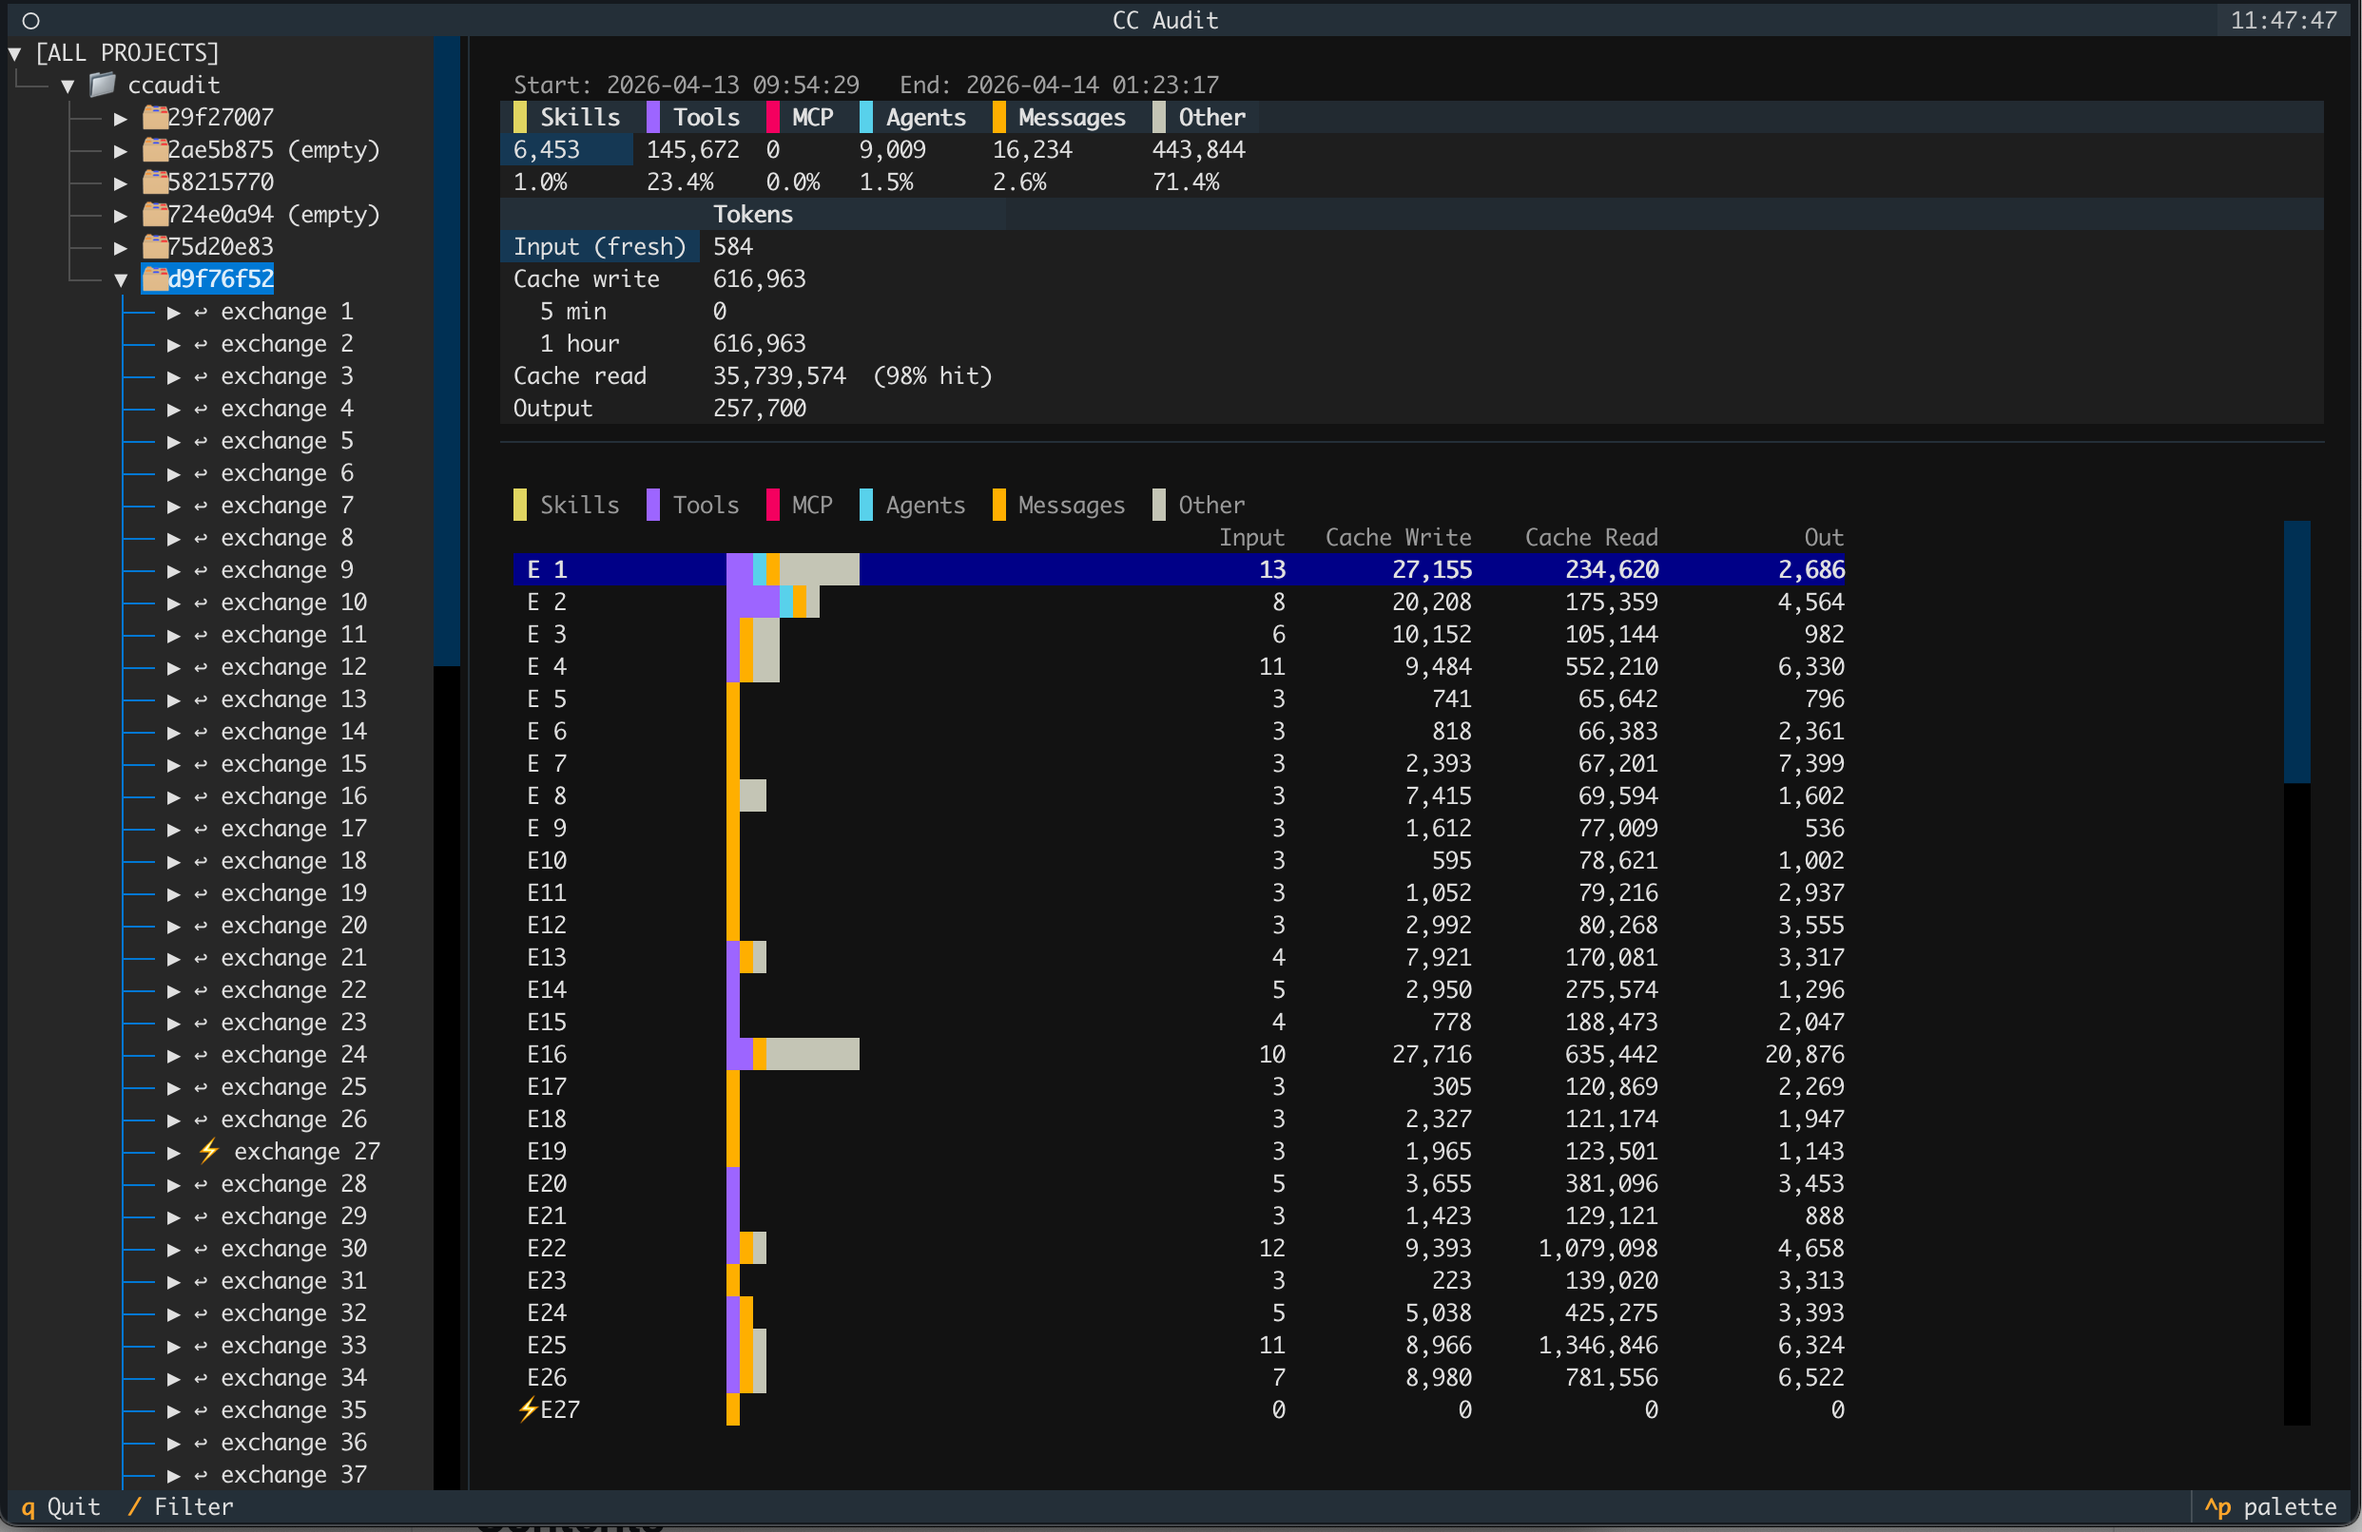
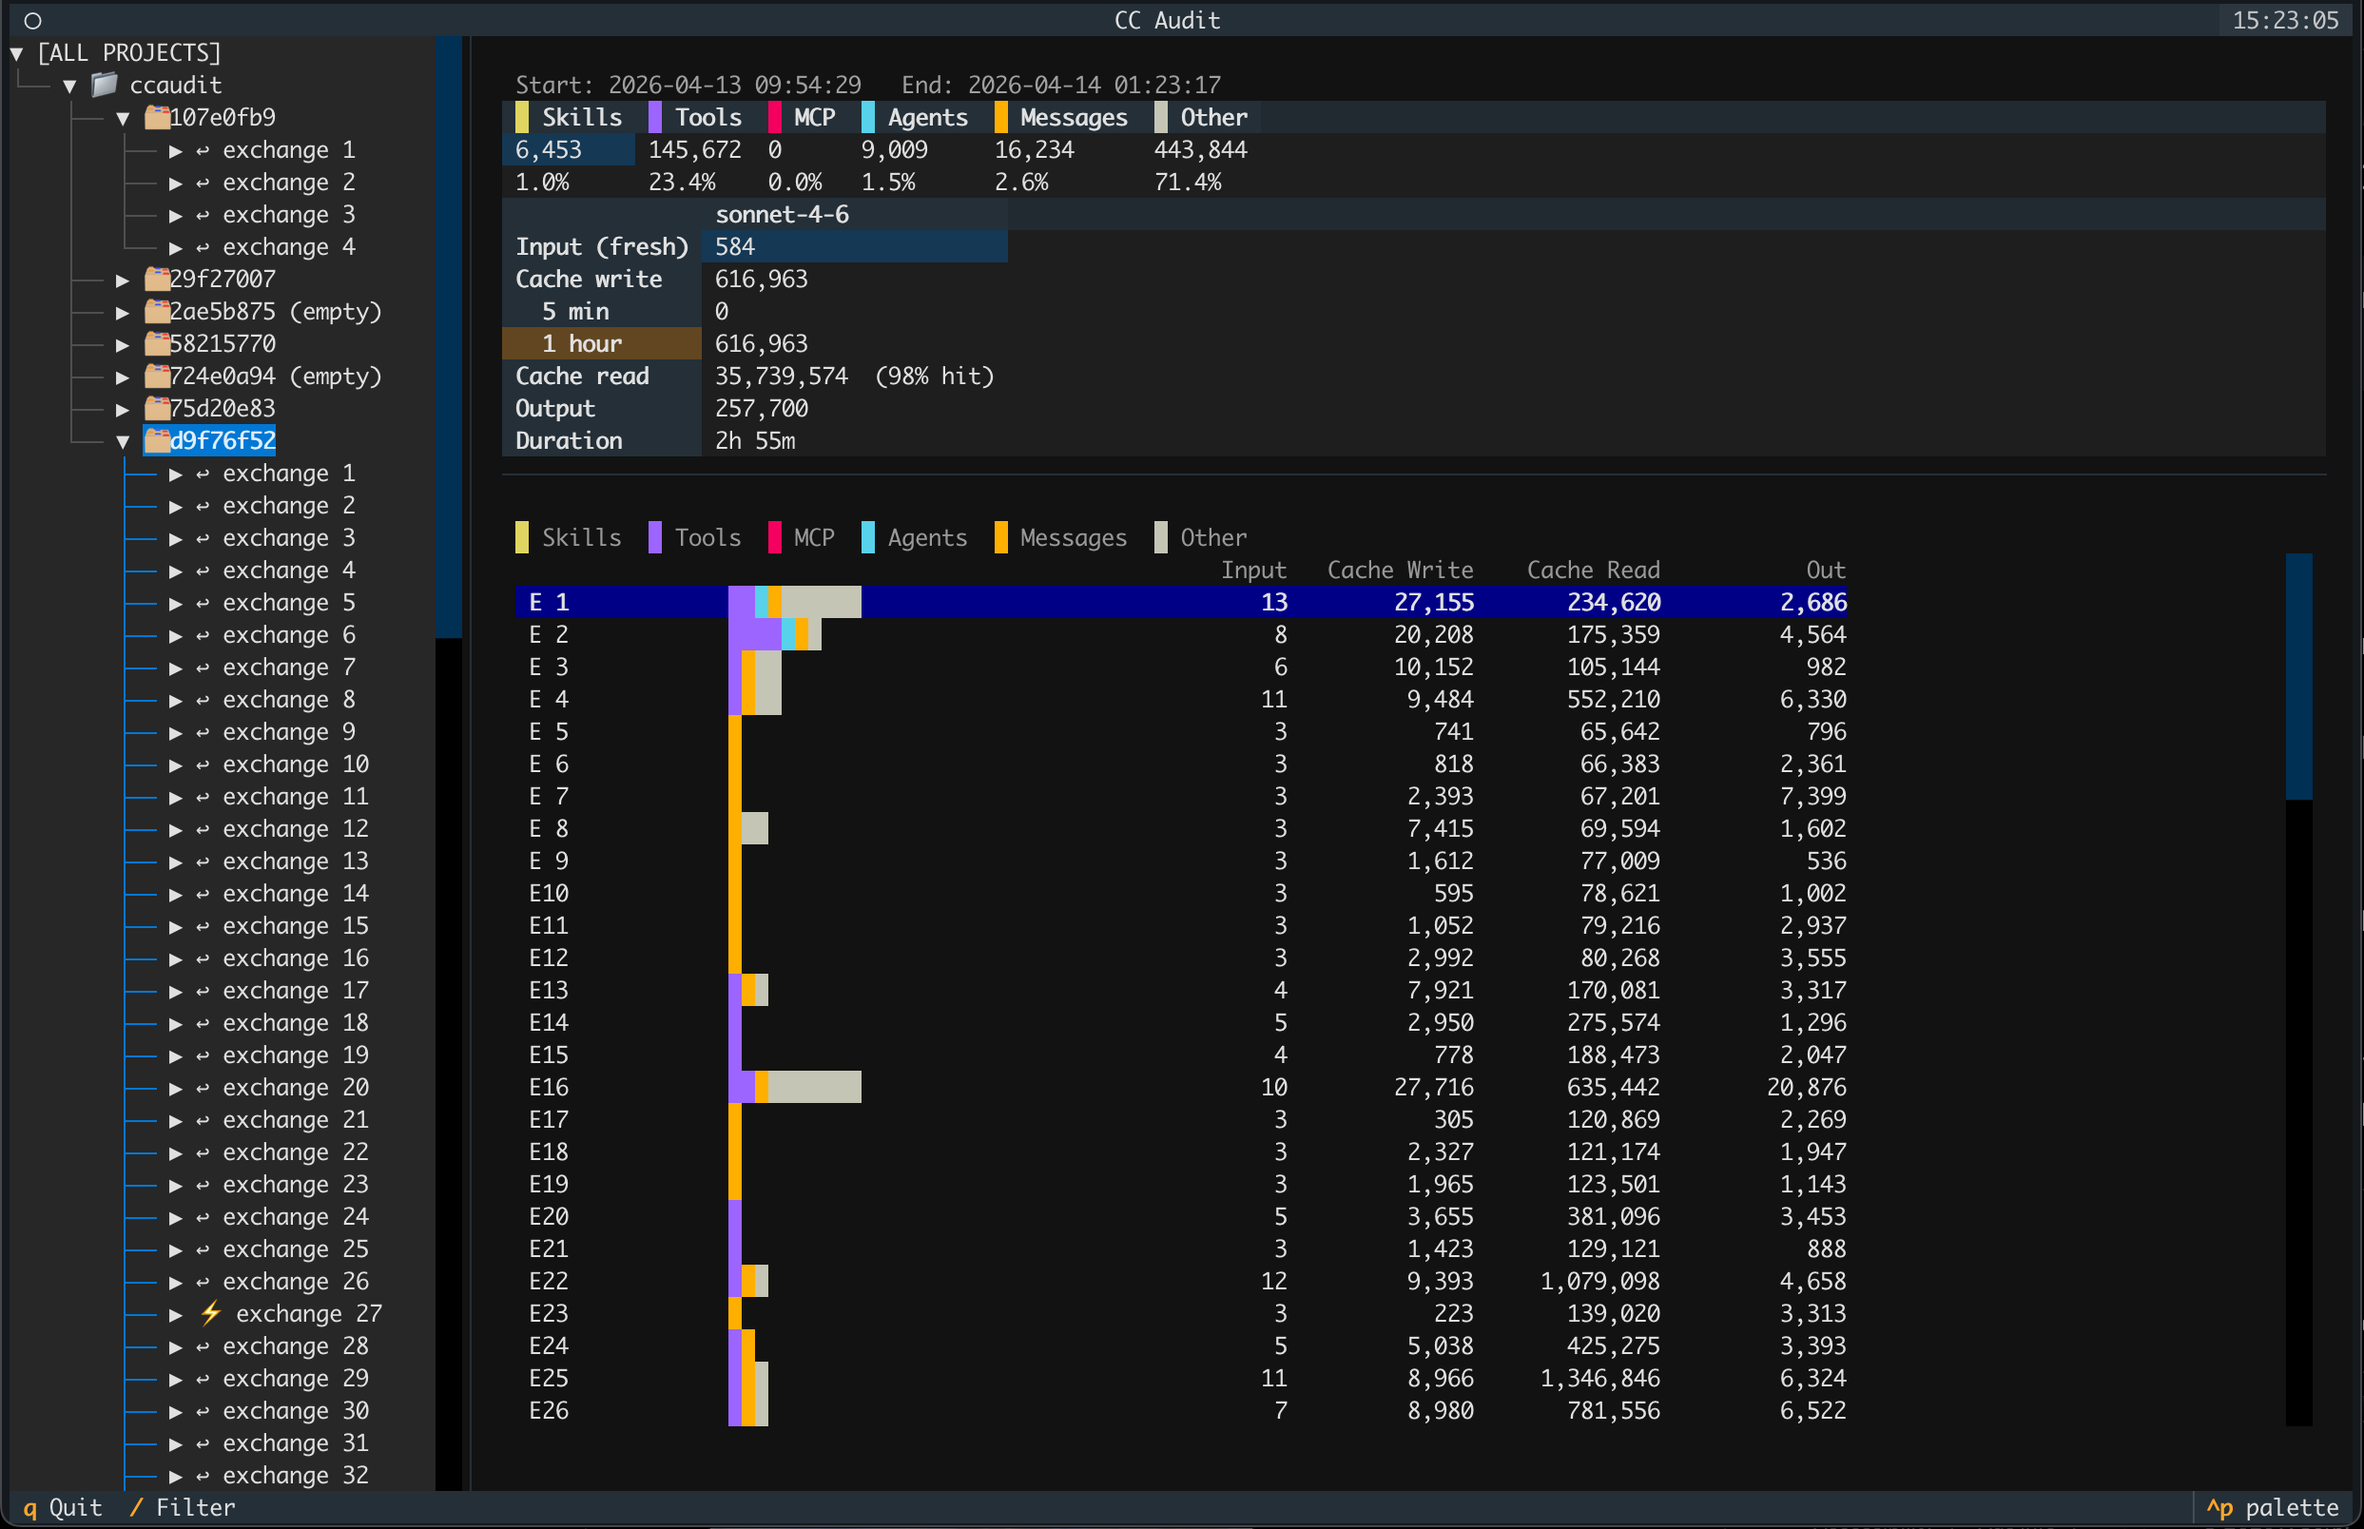
update screenshot and readme

diff --git a/README.md b/README.md
@@ -17,6 +17,7 @@ ccaudit is a terminal UI for exploring how Claude Code spends your token budget.
 - [System Message — Compact Boundary](#system-message--compact-boundary)
 - [Token Categories](#token-categories)
 - [Parsed Data Model](#parsed-data-model)
+  - [Model Attribution](#model-attribution)
 - [Schema Sources](#schema-sources)
 
 ---
@@ -201,6 +202,7 @@ When `type == "assistant"`, the `message` object is:
 ```json
 {
   "role": "assistant",
+  "model": "claude-sonnet-4-6",
   "content": "string" | [ ...content blocks... ],
   "usage": {
     "input_tokens": 1234,
@@ -218,6 +220,7 @@ When `type == "assistant"`, the `message` object is:
 | Field | Meaning |
 |---|---|
 | `role` | Always `"assistant"`. |
+| `model` | The model that produced this response (e.g. `"claude-sonnet-4-6"`). May be `"<synthetic>"` for internally-generated responses that did not invoke a real LLM. |
 | `content` | The assistant's response: a plain string (rare) or a list of text and tool-use blocks. |
 | `usage` | Token accounting for this API call. Messages without `usage` are streaming artifacts and are skipped by the loader. |
 
@@ -355,9 +358,18 @@ One complete human-to-assistant exchange, including all intermediate tool round-
 | `assistant_text` | `str` | Text blocks from the final assistant message joined (≤800 chars) |
 | `files_read` | `list[str]` | Paths from `Read` calls; `Glob:pattern` for Glob; `Grep:'pattern' in path` for Grep |
 | `tool_calls` | `list[tuple[str, dict]]` | `(tool_name, input_dict)` for every `tool_use` block across all assistant messages |
+| `model` | `str` | Model name for this exchange (see [Model Attribution](#model-attribution)); empty string if unknown |
 | `raw_user` | `dict` | Full JSONL envelope of the opening human user message |
 | `raw_assistants` | `list[dict]` | Full JSONL envelopes of all assistant messages in the exchange (intermediates + final) |
 | `jsonl_path` | `str` | Absolute path to the source JSONL file |
+
+#### Model Attribution
+
+The `model` field is populated from `message.model` on the first assistant message in the exchange that carries a non-synthetic model value. A few caveats:
+
+- **One model per exchange** — ccaudit assumes the whole exchange ran on a single model. In practice Claude Code does not switch models mid-exchange, so the first assistant response's model is used for the entire exchange.
+- **`<synthetic>` is ignored** — some assistant messages carry `message.model = "<synthetic>"` to indicate the response was produced internally without a real LLM call (e.g. canned responses or token usage hitting limit). These values are skipped; the loader continues to the next assistant message in the exchange looking for a real model name.
+- If no real model is found, `model` is left as an empty string and the exchange is excluded from per-model aggregations in the TUI.
 
 ### SessionStats
 
